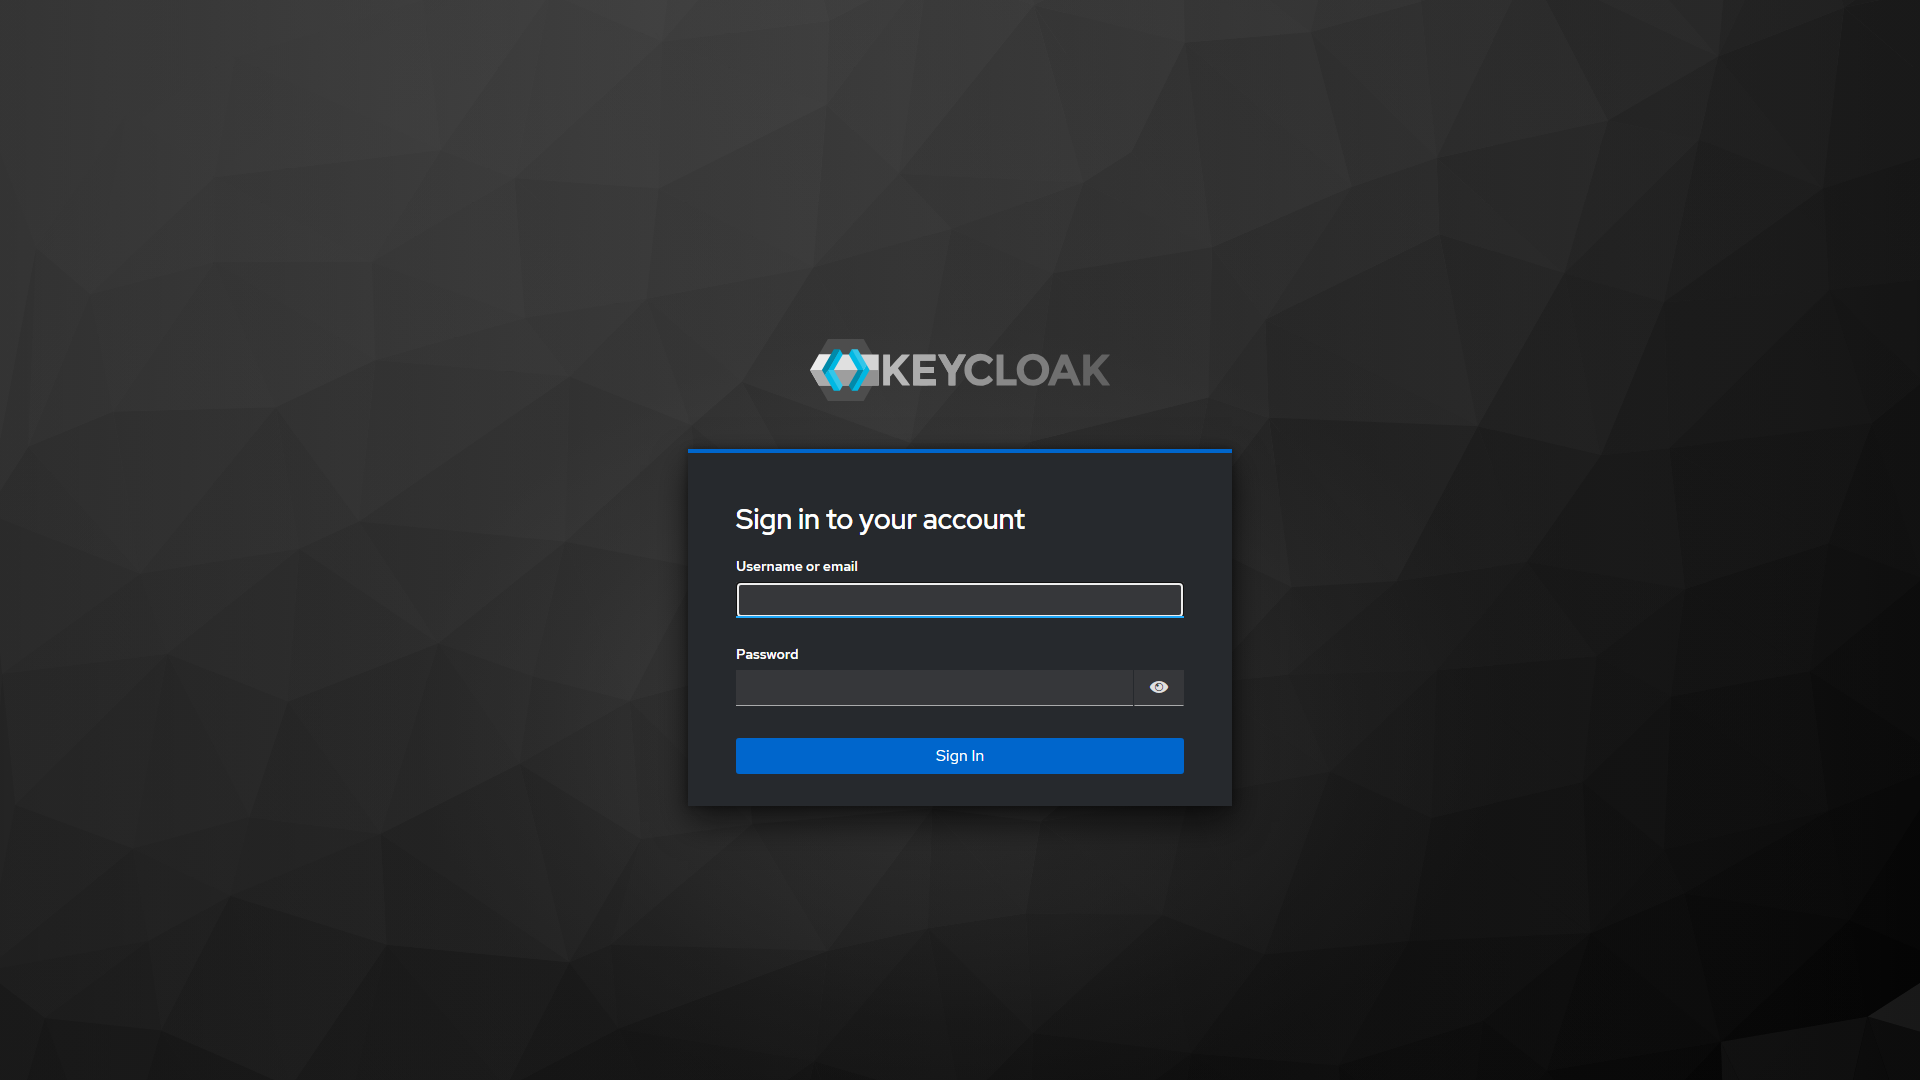
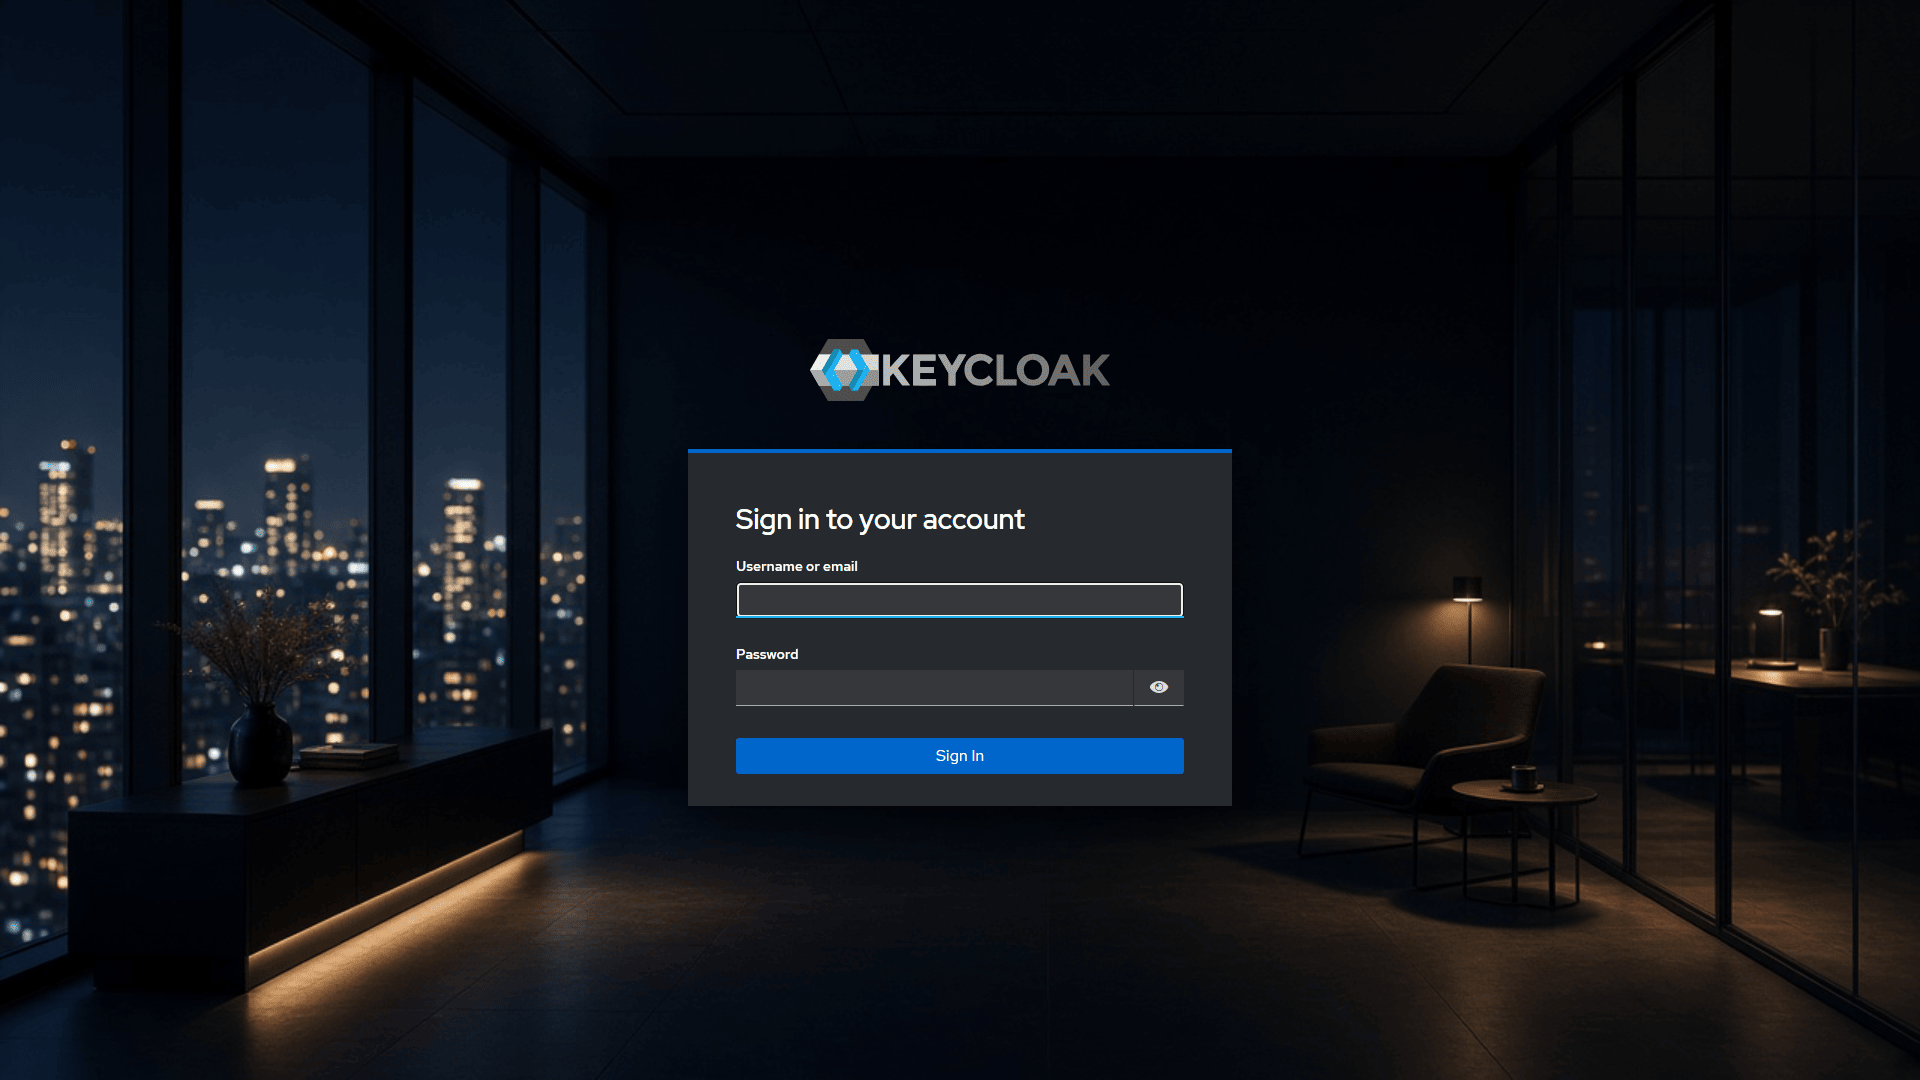
Use a photograph as the Keycloak login background. (#40)
The lab realm had no login theme, so Keycloak showed the built-in geometric pattern. A small child theme replaces that background and keeps the sign-in card readable.

diff --git a/configs/keycloak/themes/lab/login/resources/css/lab-background.css b/configs/keycloak/themes/lab/login/resources/css/lab-background.css
@@ -1,0 +1,9 @@
+/* Photograph instead of the built-in geometric pattern.
+   The sign-in card keeps an opaque PatternFly surface. */
+:root {
+    --keycloak-bg-logo-url: url("../img/login-background.jpg");
+}
+
+.pf-v5-c-login__main {
+    box-shadow: 0 18px 50px rgba(0, 0, 0, 0.55);
+}
